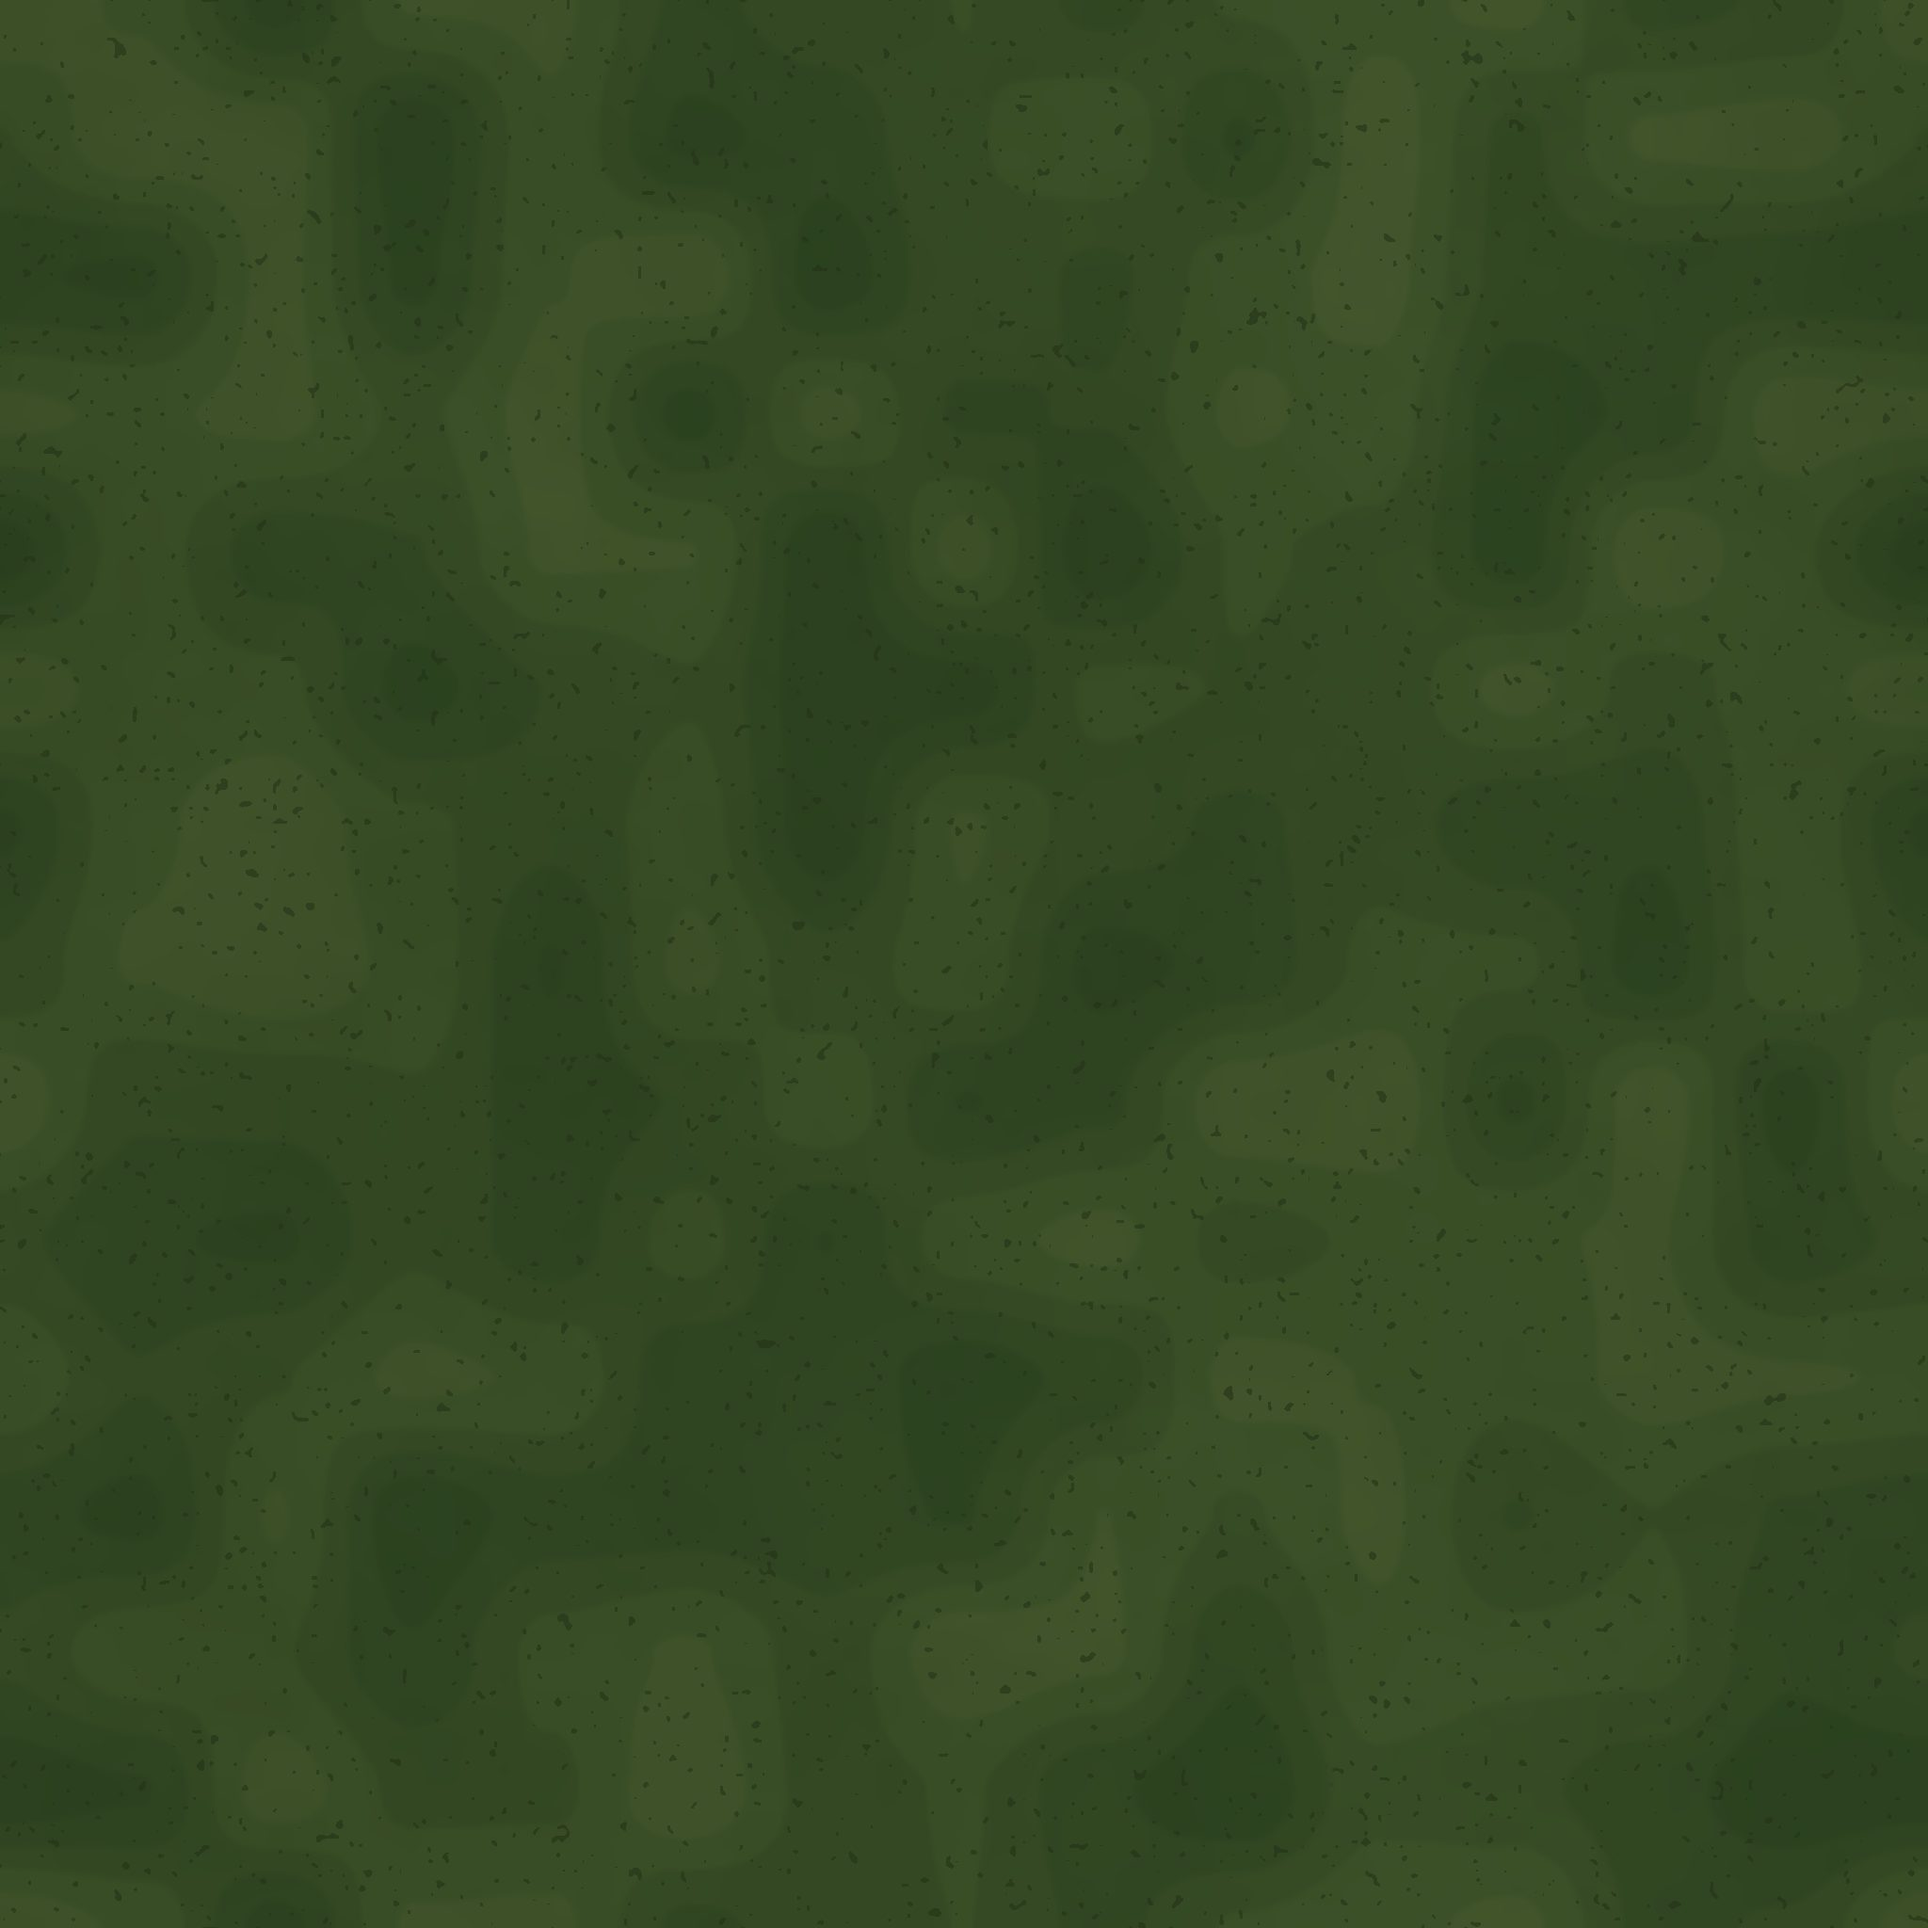
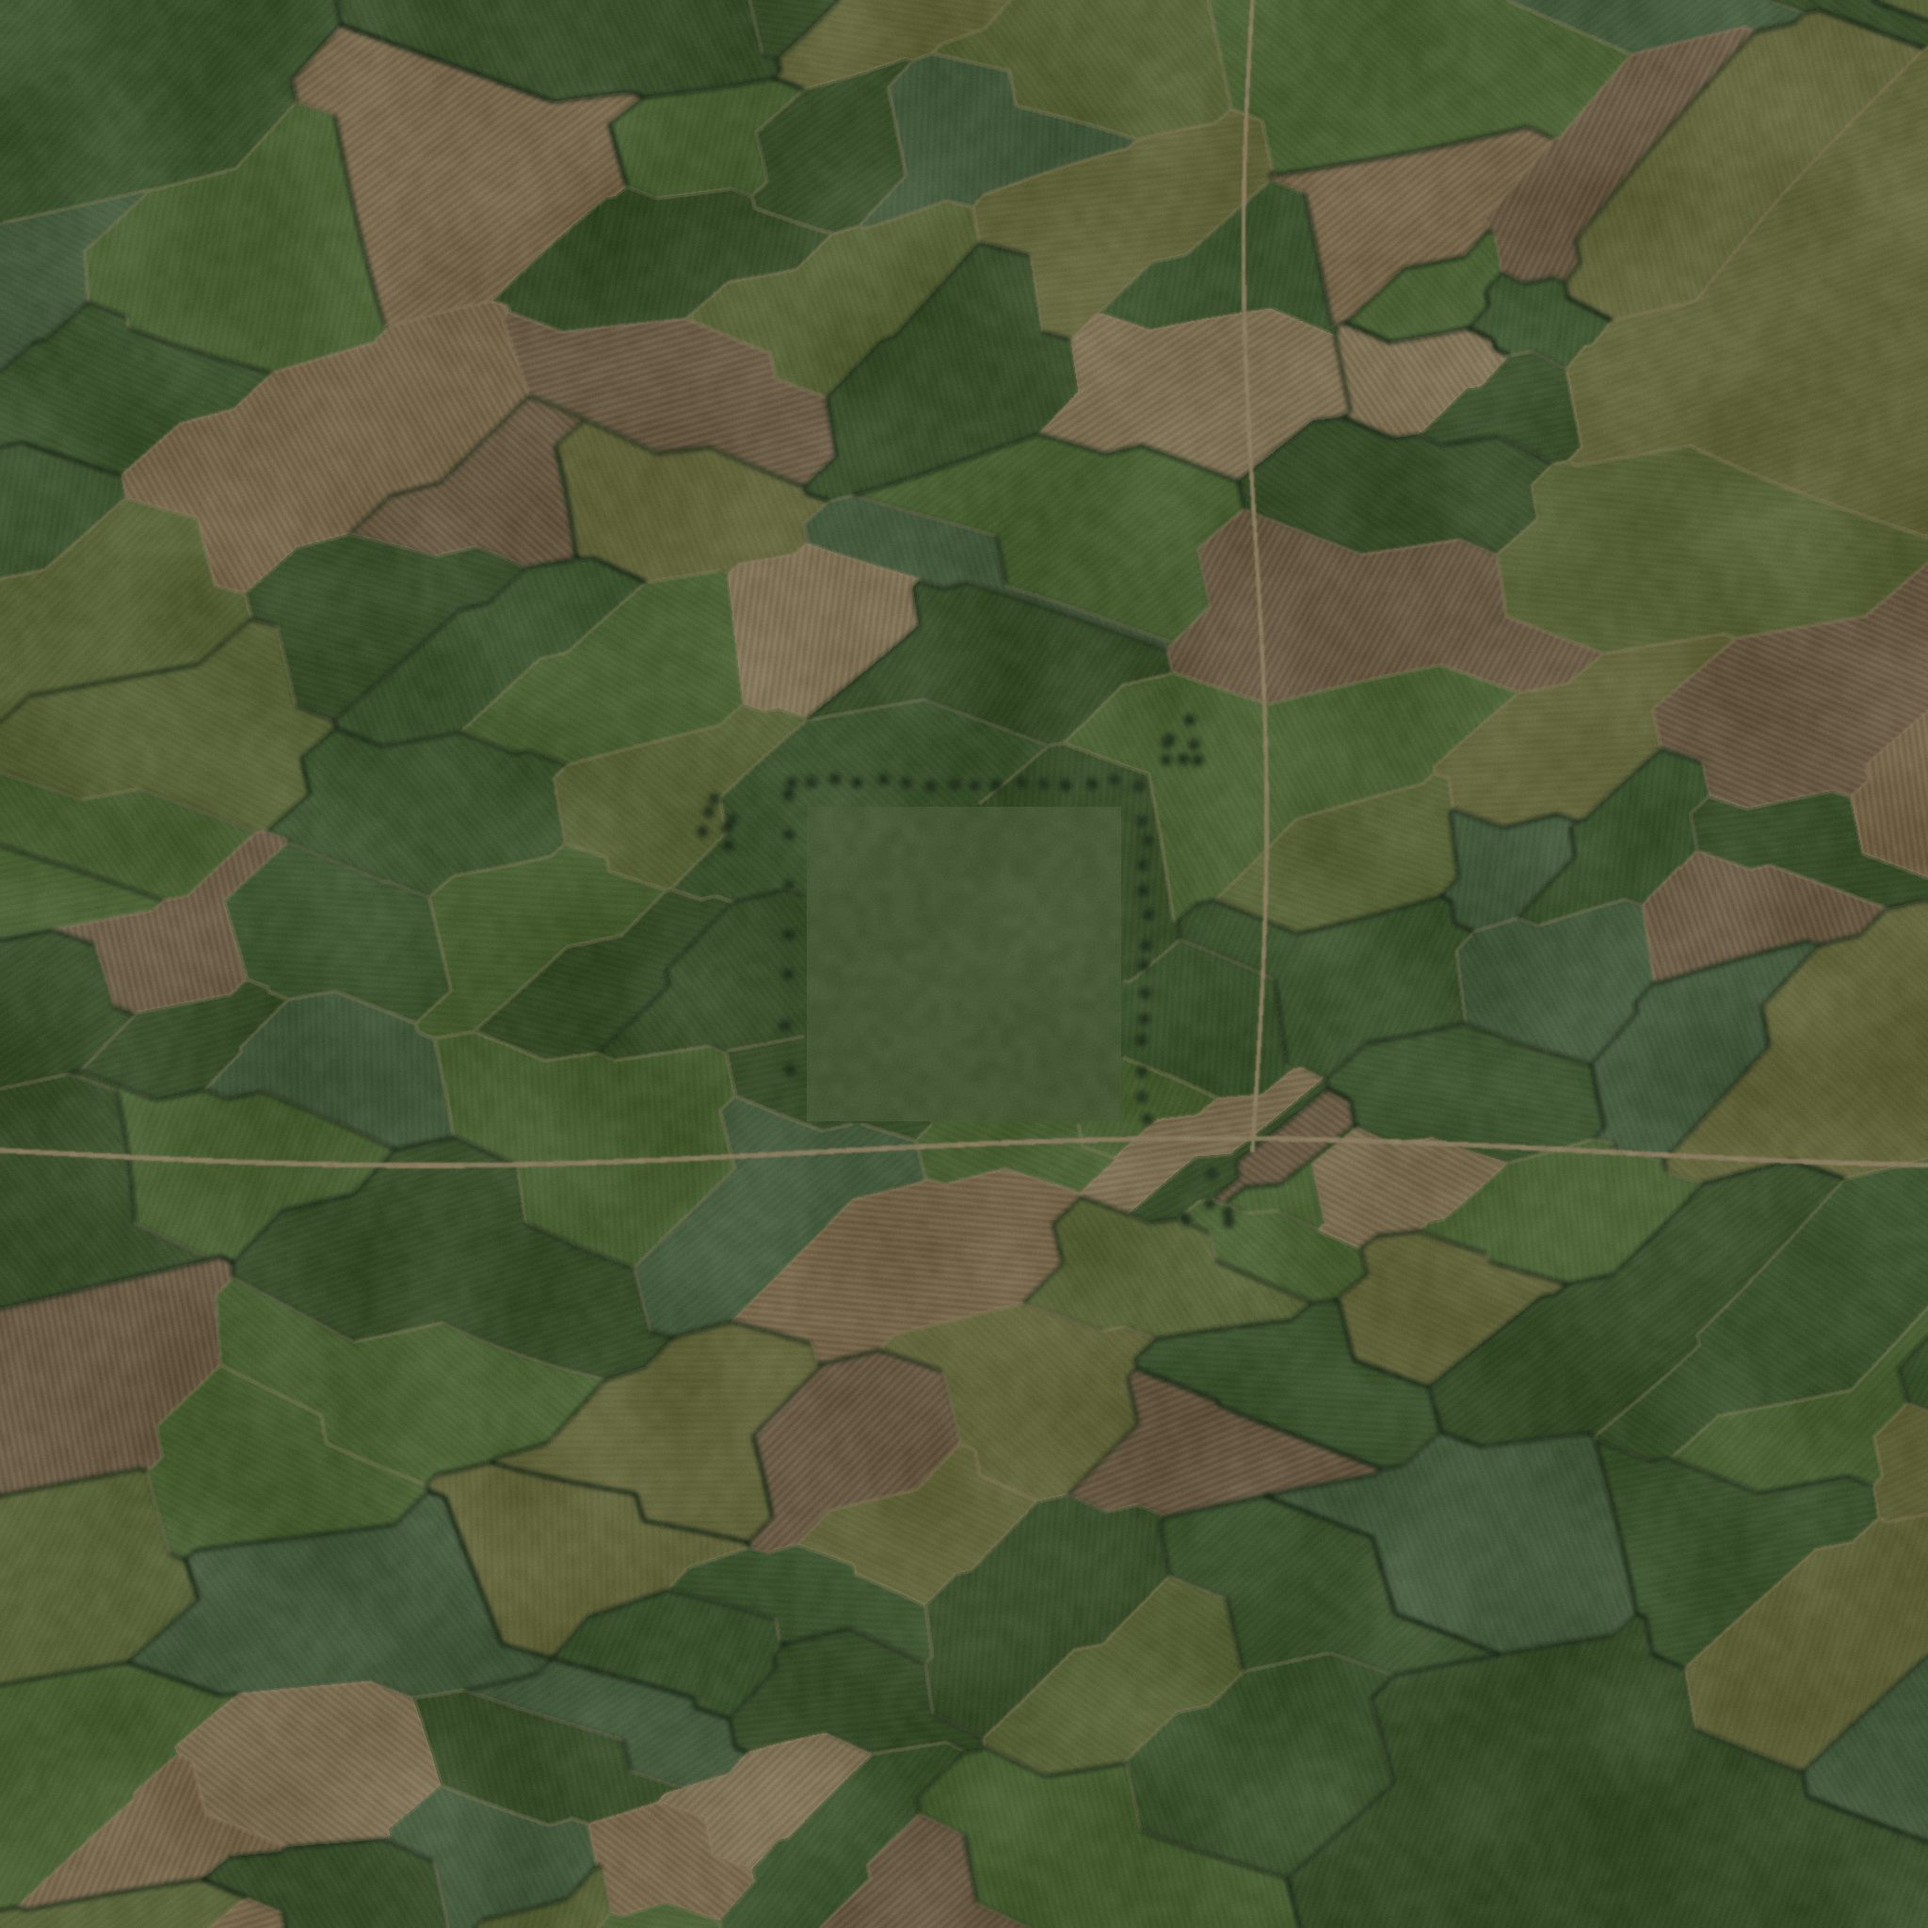
field ground: farm parcels, hedges and a track from tools/field_texture.py

diff --git a/tools/field_texture.py b/tools/field_texture.py
@@ -1,0 +1,76 @@
+#!/usr/bin/env python3
+"""Write sim/field.jpg, the live view's farmland ground (SWARM_DEMO_GROUND=field): a patchwork of
+crop parcels, hedges, a dirt track, and a calm meadow where the 300 m field is. North is up;
+2048 px over the 2000 m ground plane centred on the field. The same picture on every run.
+
+    python3 tools/field_texture.py
+"""
+import os
+import sys
+
+import numpy as np
+from PIL import Image, ImageFilter
+
+sys.path.insert(0, os.path.dirname(os.path.dirname(os.path.abspath(__file__))))
+
+from sim import demo_world
+
+N, SIZE_M = 2048, 2000.0
+CROPS = [(74, 96, 52), (62, 84, 48), (88, 98, 56), (98, 100, 60), (70, 90, 62), (58, 78, 44)]
+TILLED = [(116, 100, 74), (104, 90, 68), (124, 110, 82)]
+MEADOW, HEDGE, TRACK = (72, 90, 56), (34, 48, 30), (138, 124, 96)
+rng = np.random.default_rng(11)
+
+
+def smooth(cells: int) -> np.ndarray:
+    """Random values on a cells x cells grid, blown up smoothly to the picture: -1..1."""
+    small = Image.fromarray(rng.integers(0, 256, (cells, cells), dtype=np.uint8))
+    return np.asarray(small.resize((N, N), Image.BICUBIC), dtype=np.float32) / 127.5 - 1.0
+
+
+def blur(mask: np.ndarray, radius: float) -> np.ndarray:
+    picture = Image.fromarray((mask * 255).astype(np.uint8))
+    return np.asarray(picture.filter(ImageFilter.GaussianBlur(radius)), dtype=np.float32) / 255.0
+
+
+metre = (np.arange(N) + 0.5) * SIZE_M / N - SIZE_M / 2 + 150.0
+x, y = np.meshgrid(metre, metre[::-1])                     # world metres, north up
+# parcels: each pixel belongs to the nearest of 150 seeds, by the larger of |dx| and |dy| in a
+# frame turned 12 deg and bent a little, so the edges are straight-ish but not a grid
+u = 0.978 * x + 0.208 * y + 25.0 * smooth(6)
+v = -0.208 * x + 0.978 * y + 25.0 * smooth(6)
+seeds = rng.uniform(-900.0, 1200.0, (150, 2))
+nearest, parcel = np.full((N, N), np.inf, dtype=np.float32), np.zeros((N, N), dtype=np.int16)
+for k, (su, sv) in enumerate(seeds):
+    d = np.maximum(np.abs(u - su), np.abs(v - sv) * 1.6)
+    parcel[d < nearest], nearest = k, np.minimum(nearest, d)
+on_field = (np.abs(x - 150.0) < 163.0) & (np.abs(y - 150.0) < 163.0)   # the field and its margin
+parcel[on_field] = len(seeds)
+
+tilled = rng.random(len(seeds) + 1) < 0.2
+tone = np.array([(TILLED if t else CROPS)[rng.integers(3 if t else 6)] for t in tilled], np.float32)
+tone[-1], tilled[-1] = MEADOW, False
+angle = rng.uniform(0.0, np.pi, len(seeds) + 1)[parcel]    # row direction of each parcel
+rows = np.sin((x * np.cos(angle) + y * np.sin(angle)) * 2 * np.pi / 7.0)
+rows *= np.where(tilled[parcel], 6.0, 2.5) * ~on_field     # faint rows, none on the meadow
+shade = rows + np.where(on_field, 3.0, 9.0) * smooth(24) + 4.0 * smooth(160)
+rgb = tone[parcel] + shade[..., None]
+
+edge = np.zeros((N, N), dtype=bool)                        # parcel edges
+edge[:, 1:] |= parcel[:, 1:] != parcel[:, :-1]
+edge[1:, :] |= parcel[1:, :] != parcel[:-1, :]
+edge &= ~((np.abs(x - 150.0) < 166.0) & (np.abs(y - 150.0) < 166.0))   # no line round the meadow
+hedged = (rng.random(len(seeds) + 1) < 0.45)[parcel] & ~on_field
+hedge = np.clip(blur(edge & hedged, 2.5) * 4.0, 0.0, 1.0)          # dark hedges on some
+margin = np.clip(blur(edge & ~hedged, 1.2) * 2.0, 0.0, 0.35)        # a pale margin on the rest
+track = np.abs(y + 45.0 - 14.0 * np.sin(x / 260.0)) < 2.6          # one track south of the field,
+track |= (np.abs(x - 452.0 - 12.0 * np.sin(y / 190.0)) < 2.2) & (y > -45.0)   # one going north
+track = blur(track, 1.0)
+under = np.zeros((N, N), dtype=bool)                       # dark undergrowth below each tree
+for _, tx, ty, _, _ in demo_world.trees():
+    under |= (x - tx) ** 2 + (y - ty) ** 2 < 6.0 ** 2
+hedge = np.maximum(hedge, blur(under, 3.0))
+for mask, colour in ((margin, TRACK), (hedge, HEDGE), (track, TRACK)):
+    rgb = rgb * (1.0 - mask[..., None]) + (np.array(colour) + 5.0 * smooth(300)[..., None]) * mask[..., None]
+rgb += rng.normal(0.0, 2.0, (N, N, 1))                     # grain
+Image.fromarray(np.clip(rgb, 0, 255).astype(np.uint8)).save(demo_world.FIELD_TEXTURE, quality=82)
